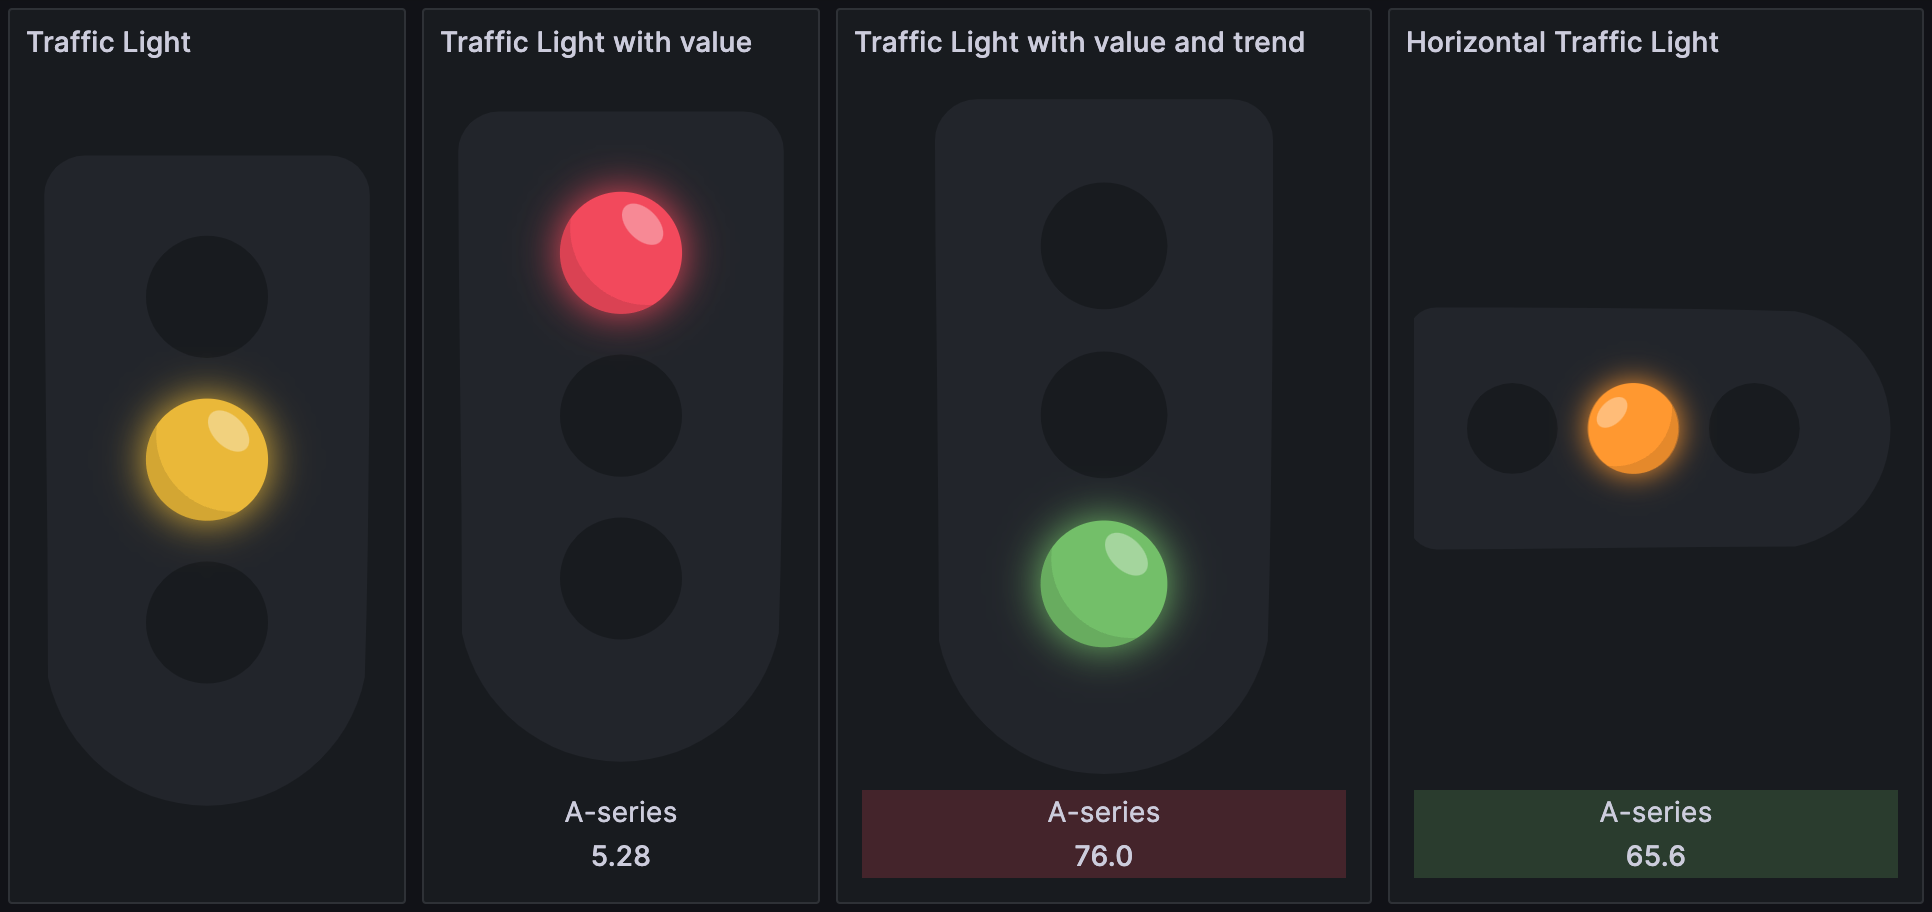
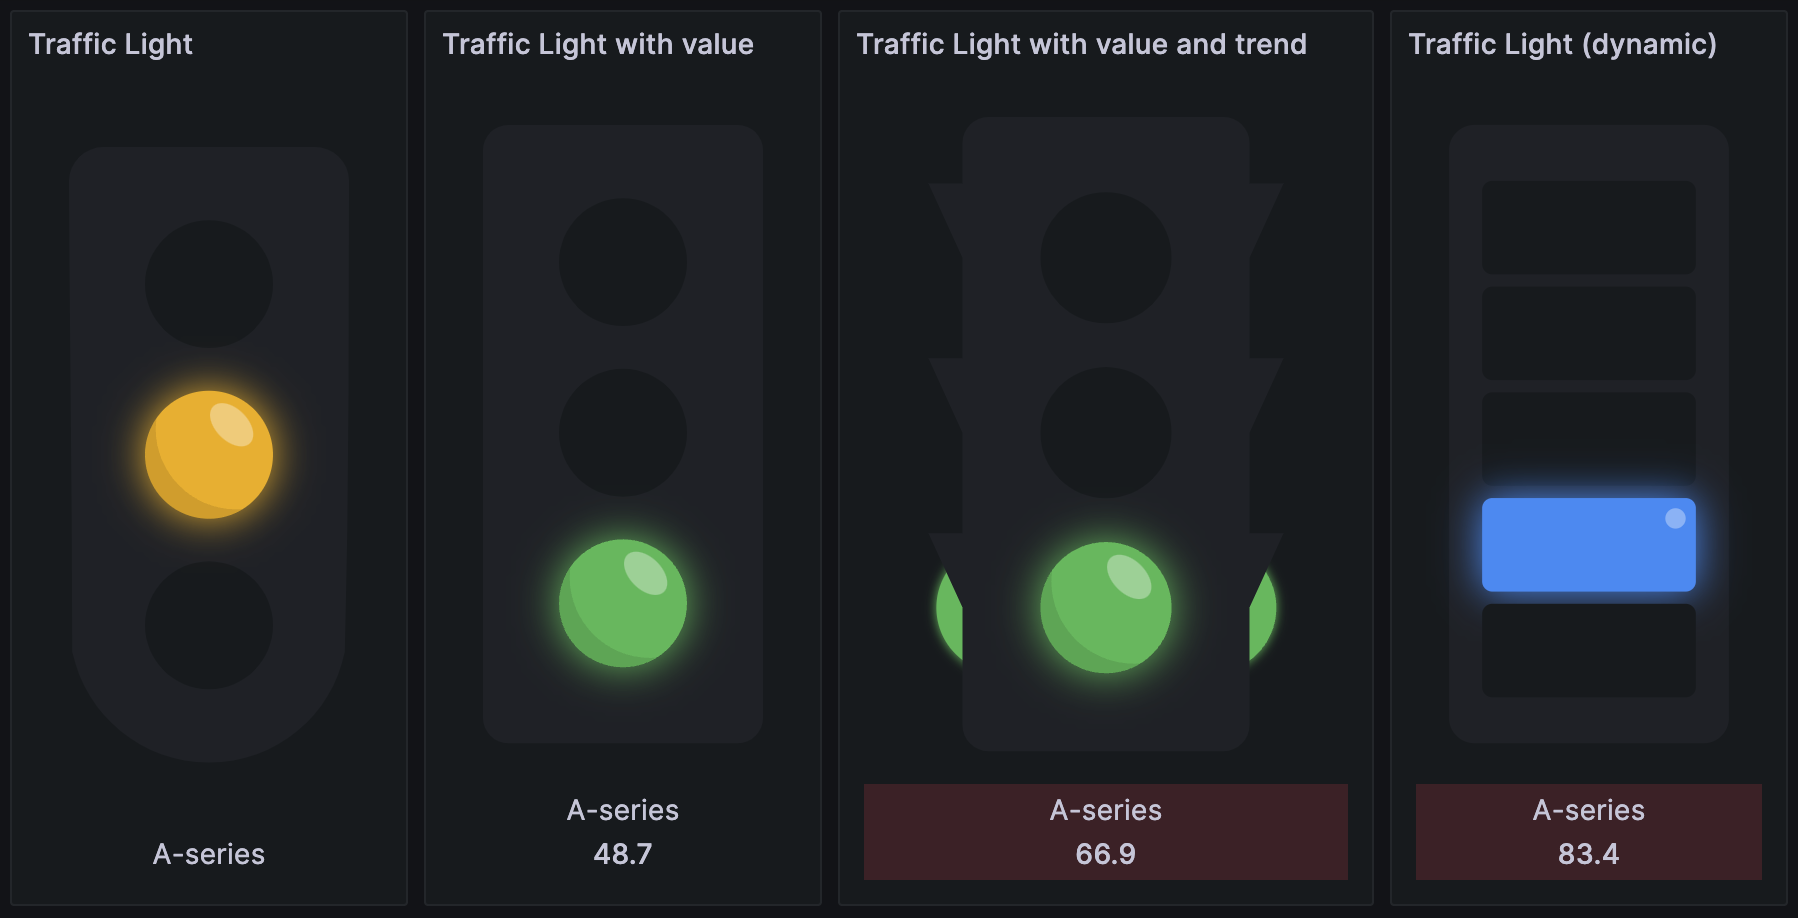
Docs: Update readme (#47)

diff --git a/src/README.md b/src/README.md
@@ -19,7 +19,7 @@ Grafana >=9.5.3
 - **Value Display:** Option to show or hide the values associated with each light.
 - **Legend Display:** Option to show or hide the legend (query name) associated with each light.
 - **Trend Display:** Show or hide the trend color to provide an additional layer of information.
-- **Traffic Light Style:** Pick a style of traffic light.
+- **Traffic Light Style:** Pick a style of traffic light. If you want a custom number of lights use dynamic.
 - **Orientation Flexibility:** Choose between a vertical or horizontal layout for the traffic lights.
 
 ## Installation
@@ -34,16 +34,17 @@ This plugin can be installed using one of the following methods:
 
 The traffic light panel uses the built in Grafana thresholds to assign lights to values.
 
-1. **Define Thresholds:** In the plugin settings, define thresholds that categorize your data. A basic thresholds example for a traffic light looks like:
+1. **Choose a traffic light style:** In the panel settings, select a light style. Dynamic allows you to add any number of lights based on the threshold settings. All other light styles require 3 thresholds to be set.
+2. **Define Thresholds:** In the panel settings, define thresholds that categorize your data. A basic thresholds example for a traffic light looks like:
 
    <img width="300px" src="https://raw.githubusercontent.com/jackw/heywesty-trafficlight-panel/main/docs/thresholds-example.png" />
 
-2. **Assign Colors:** Assign colors to each threshold range. These colors will be used to represent the corresponding data values in the traffic lights.
-3. **Preview and Adjust:** After setting the thresholds, preview them on your dashboard. Adjust the thresholds and colors as necessary to accurately reflect the status indicated by your data.
-4. **Data Links:** Optionally [add datalinks](https://grafana.com/docs/grafana/latest/panels-visualizations/configure-data-links/) to make the traffic light panel navigate elsewhere on click.
+3. **Assign Colors:** Assign colors to each threshold range. These colors will be used to represent the corresponding data values in the traffic lights.
+4. **Preview and Adjust:** After setting the thresholds, preview them on your dashboard. Adjust the thresholds and colors as necessary to accurately reflect the status indicated by your data.
+5. **Data Links:** Optionally [add datalinks](https://grafana.com/docs/grafana/latest/panels-visualizations/configure-data-links/) to make the traffic light panel navigate elsewhere on click.
 
 > [!TIP]
-> Make use of threshold overrides if you'd like to set traffic lights with different colour schemes.
+> Make use of threshold overrides if you'd like to set traffic lights with different colour schemes. If you're using dynamic lights you can also set different numbers of lights.
 
 ## Options
 
@@ -55,12 +56,12 @@ Getting started is as simple as adding the panel to your dashboard and tweaking 
 1. **Show Value:** Choose whether to display the numerical values with each light. True by default.
 1. **Show Legend:** Choose whether to display the numerical values with each light. True by default.
 1. **Show Trend:** Add an extra layer of insight with a trend color. True by default.
-1. **Traffic Light Style:** Choose from one of: default, rounded, or side lights.
-1. **Sort Lights:** Organize your traffic lights in the order that makes sense to you:
+2. **Traffic Light Style:** Choose from one of: default, rounded, side lights, or dynamic.
+3. **Sort Lights:** Organize your traffic lights in the order that makes sense to you:
    - None: Keep data series order.
    - Ascending: Line them up from lowest to highest values.
    - Descending: Line them up from highest to lowest values.
-1. **Orientation:** Set the lights horizontally or stick to the default vertical layout.
+4. **Orientation:** Set the lights horizontally or stick to the default vertical layout.
 
 ## Troubleshooting / Help
 

diff --git a/CHANGELOG.md b/CHANGELOG.md
@@ -1,12 +1,35 @@
 # Changelog
 
+## 0.5.0
+
+- Feat: Dynamic Lights style allowing any number of lights to be used
+- Fix: Sort should sort numerically
+- Chore: Bump @grafana/create-plugin configuration to 5.5.3
+- CI: Update all GH workflows to latest create-plugin
+
+## 0.4.1
+
+- Chore: Bump @grafana/create-plugin configuration to 5.3.9
+
+## 0.4.0
+
+- Feature: Support table data
+- Chore: fix license file
+- Chore: Bump @grafana/create-plugin configuration to 4.16.2
+- Deps: bump ws from 8.13.0 to 8.17.1
+
+## 0.3.1
+
+- Bug: Fix queries with a single field
+- Chore: Bump @grafana/create-plugin configuration to 4.12.0
+- CI: introduce cp update workflow
+
 ## 0.3.0
 
 - Add new option to reverse the order of colors in traffic lights
 - Add new option to show only the legend (query name) below traffic lights
 - Clean up e2e tests with test ids const and bumping plugin-e2e to 1.x.x
 - Introduce e2e tests for TrafficLightValue component
-
 
 ## 0.2.0
 
